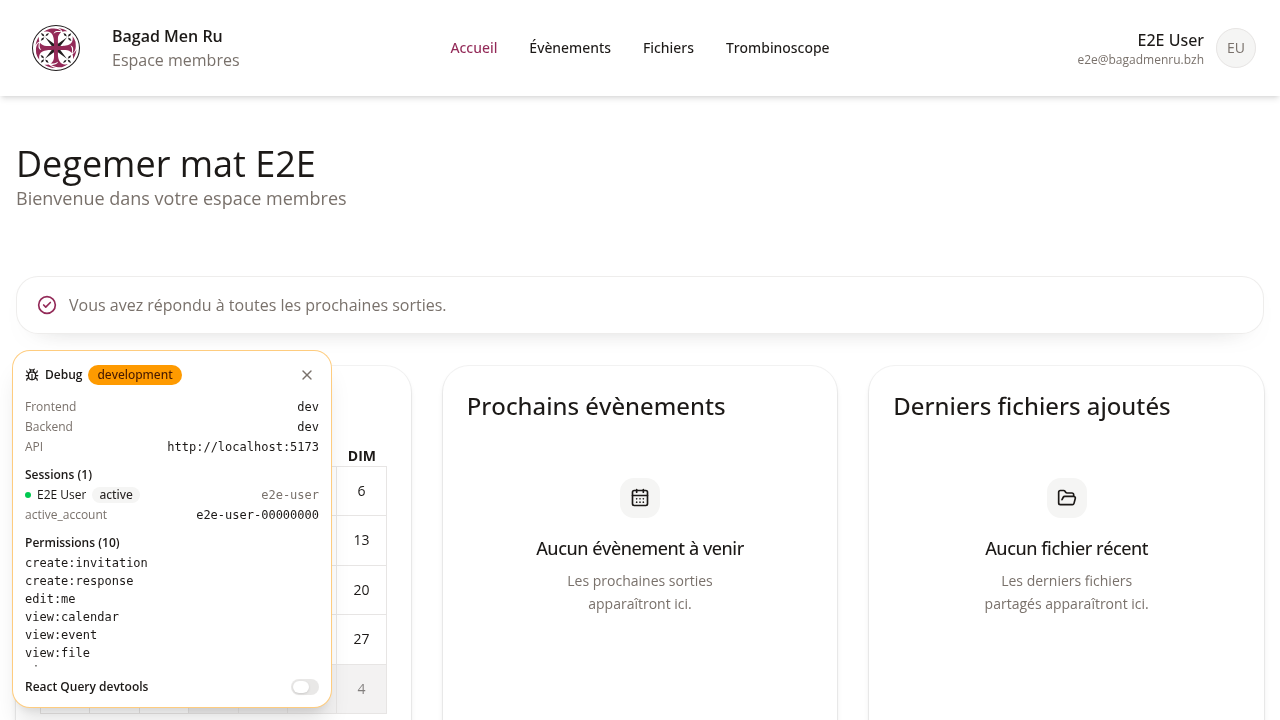
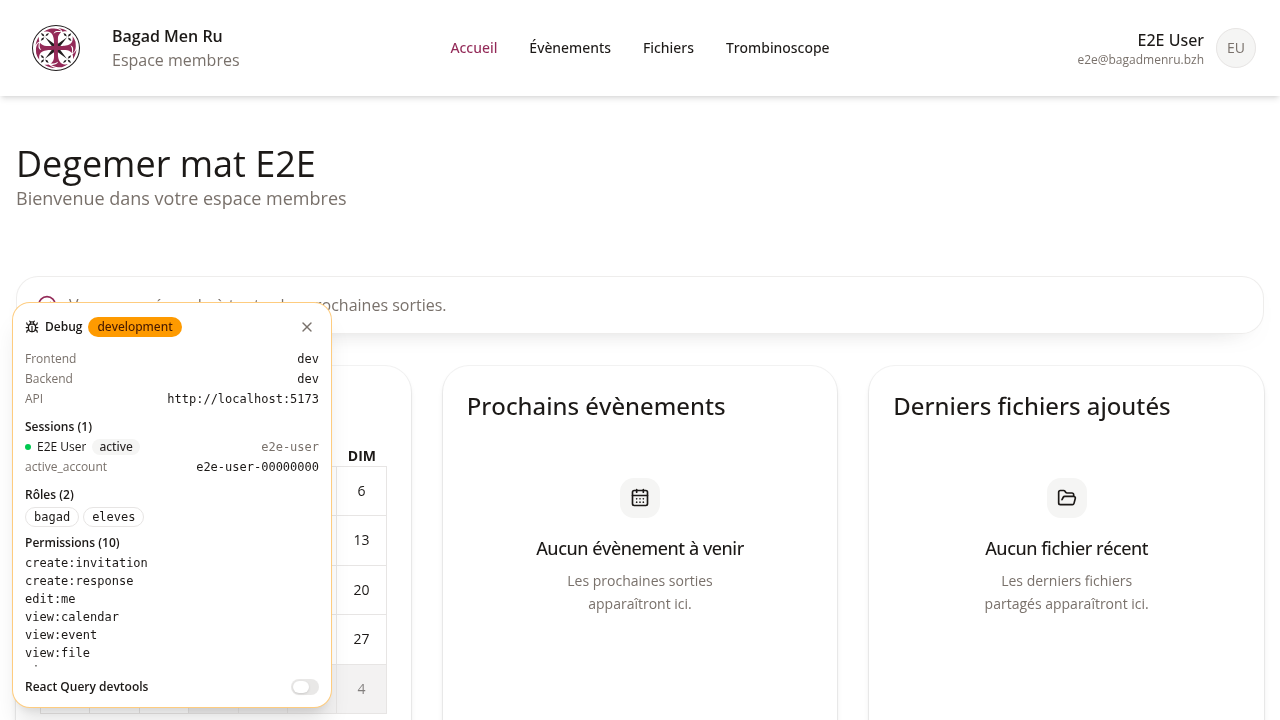
Show the account's roles in the debug bar panel
Roles (from /profiles/me/roles, derived from group membership) render as badges above the permissions list. Same auth gating as permissions.

Changed region(s): [[0.0, 0.3972, 0.25, 0.7333]]

diff --git a/frontend/app/src/components/debug-bar.tsx b/frontend/app/src/components/debug-bar.tsx
@@ -83,12 +83,18 @@ function SessionsSection({ sessions }: { sessions: SessionInfo[] | undefined }) 
 }
 
 /**
- * Current account's permissions. Rendered only when an active session exists:
- * the endpoint requires auth, and fetching it as a guest would surface the
- * app-wide 401 error toast.
+ * Current account's roles and permissions. Rendered only when an active
+ * session exists: both endpoints require auth, and fetching them as a guest
+ * would surface the app-wide 401 error toast.
  */
 function PermissionsSection() {
   const { usersApi } = useApiClient();
+
+  const { data: roles } = useQuery({
+    queryKey: ['profiles', 'me', 'roles'],
+    queryFn: async () => await usersApi.getMyRolesApiV1ProfilesMeRolesGet(),
+    retry: false,
+  });
 
   const { data: permissions } = useQuery({
     queryKey: ['profiles', 'me', 'permissions'],
@@ -99,6 +105,20 @@ function PermissionsSection() {
   return (
     <div>
       <p className="mb-1 font-semibold">
+        Rôles (
+        {roles?.length ?? 0}
+        )
+      </p>
+      {roles !== undefined && roles.length > 0
+        ? (
+          <div className="flex flex-wrap gap-1" data-testid="debug-bar-roles">
+            {roles.filter((role) => role !== null).map((role) => (
+              <Badge key={role} variant="outline" className="font-mono">{role}</Badge>
+            ))}
+          </div>
+        )
+        : <p className="text-muted-foreground">Aucun rôle</p>}
+      <p className="mt-2 mb-1 font-semibold">
         Permissions (
         {permissions?.length ?? 0}
         )

diff --git a/frontend/app/src/components/debug-bar.test.tsx b/frontend/app/src/components/debug-bar.test.tsx
@@ -24,7 +24,10 @@ vi.mock('../config/client', () => ({
         },
       ]),
     },
-    usersApi: { getMyPermissionsApiV1ProfilesMePermissionsGet: async () => await Promise.resolve(['read:events']) },
+    usersApi: {
+    getMyPermissionsApiV1ProfilesMePermissionsGet: async () => await Promise.resolve(['read:events']),
+    getMyRolesApiV1ProfilesMeRolesGet: async () => await Promise.resolve(['member']),
+  },
   }),
 }));
 
@@ -76,7 +79,8 @@ describe('DebugBar panel', () => {
     expect(await screen.findByText(/Jean\s+Test/)).toBeTruthy();
     expect(screen.getByText(/Anna\s+Autre/)).toBeTruthy();
     expect(screen.getByText('active')).toBeTruthy();
-    // Permissions fetched because an active session exists.
+    // Roles and permissions fetched because an active session exists.
+    expect(await screen.findByText('member')).toBeTruthy();
     expect(await screen.findByText('read:events')).toBeTruthy();
   });
 

diff --git a/frontend/app/src/stories/DebugBar.stories.tsx b/frontend/app/src/stories/DebugBar.stories.tsx
@@ -20,6 +20,7 @@ function SeedApiCache({ children }: PropsWithChildren) {
   // useState initializer: runs exactly once per mount, before children render.
   useState(() => {
     queryClient.setQueryData(['version'], { version: '1.2.3-storybook' });
+    queryClient.setQueryData(['profiles', 'me', 'roles'], ['member', 'admin']);
     queryClient.setQueryData(['auth', 'sessions'], [
       {
         id: 'abcdef1234567890', firstName: 'Jean', lastName: 'Test', active: true,
